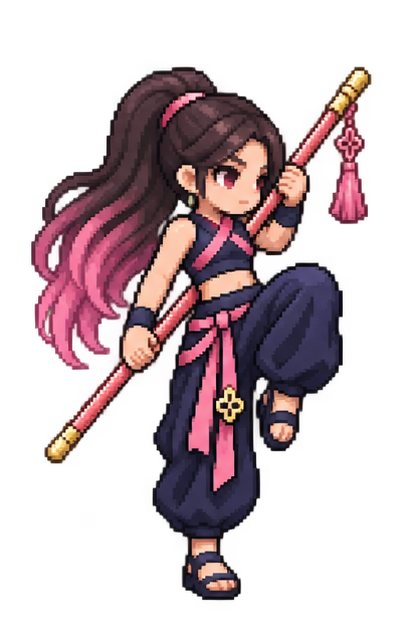
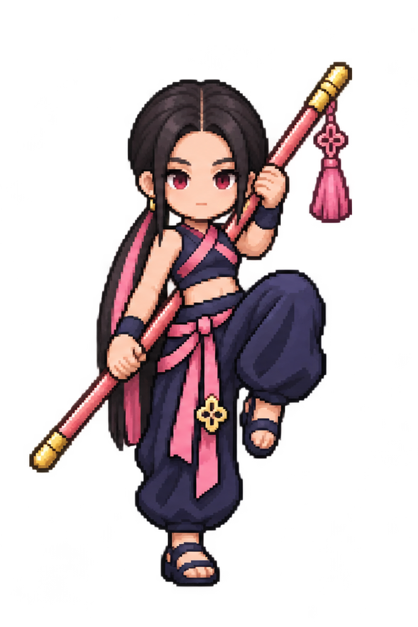
Correct Wonyoung and Leeseo hairstyles and selection portrait gazes

diff --git a/docs/index.html b/docs/index.html
@@ -11,4 +11,4 @@
 <label>CPU 난이도 <select id="difficulty"><option value="easy">쉬움</option><option value="normal" selected>보통</option><option value="hard">어려움</option></select></label>
 <button class="flow-cta" id="launch" disabled>대전 준비 중…</button></div></div></section>
 <div id="play" hidden><section class="game"><div class="arena-top"><span><i></i> TRAINING CENTER</span><span id="modeLabel">PLAYER VS CPU · 2선승</span><button id="sound" aria-label="효과음 켜기">SOUND OFF</button><button id="pause">일시정지 <kbd>ESC</kbd></button></div><div class="viewport"><canvas id="arena" width="600" height="300" aria-label="격투 게임 경기장"></canvas><div class="hud"><div class="fighter-hud"><div><b id="name1">KAI</b><small>PLAYER 01</small></div><div class="hp"><i id="hp1"></i></div><span id="wins1">○ ○</span><div class="meter"><i id="meter1"></i></div><small id="meterLabel1">SUPER 0%</small></div><div class="timer"><b id="timer">60</b><small id="round">ROUND 01</small></div><div class="fighter-hud right"><div><b id="name2">ROOK</b><small id="p2Label">CPU</small></div><div class="hp"><i id="hp2"></i></div><span id="wins2">○ ○</span><div class="meter"><i id="meter2"></i></div><small id="meterLabel2">SUPER 0%</small></div></div><div class="center" id="overlay"><div class="eyebrow" id="overlayKicker">READY WHEN YOU ARE</div><h2 id="overlayTitle">ENTER THE ARENA</h2><p id="overlayText">파이터 선택 후 대전을 시작하세요</p><button class="primary" id="start">대전 시작 <span>↗</span></button></div><div class="arena-bottom"><span>SEOUL / TRAINING CENTER</span><span id="status">FREE PLAY — NO SIGN UP</span><span>STAGE 01</span></div></div></section>
-<section class="controls"><div><h3>KNOW YOUR MOVES</h3><p>6버튼 전투 · 고유기 · 초필살기</p></div><div><b class="p1">MOVEMENT</b><p><kbd>A</kbd><kbd>D</kbd> 이동 (방향키 가능) <kbd>W</kbd> 점프 <kbd>S</kbd> 앉기</p><p>상대 반대 방향 유지: 가드 / 뒤 + S: 앉아 가드</p></div><div><b class="p2">ATTACK / 약 · 중 · 강</b><p>펀치 <kbd>U</kbd><kbd>I</kbd><kbd>O</kbd></p><p>킥 &nbsp;&nbsp; <kbd>J</kbd><kbd>K</kbd><kbd>L</kbd></p></div><div class="hint"><kbd>Q</kbd> 고유기 · <kbd>R</kbd> 슈퍼 (게이지 100%)<br>앉아 킥은 하단, 점프 공격은 중단입니다.<br><span>서 있는 가드와 앉아 가드를 상황에 맞게 사용하세요.</span></div></section><div class="touch"><button data-key="KeyA">←</button><button data-key="KeyD">→</button><button data-key="KeyW">점프</button><button data-key="KeyS">앉기</button><button data-key="KeyU">약P</button><button data-key="KeyI">중P</button><button data-key="KeyO">강P</button><button data-key="KeyJ">약K</button><button data-key="KeyK">중K</button><button data-key="KeyL">강K</button><button data-key="KeyQ">고유기</button><button data-key="KeyR">슈퍼</button></div><footer><span>DIVE / ARENA</span><span>사진 레퍼런스 기반 · PIXEL ARCADE · 팬 데모</span><button id="reset">선택 화면으로 ↗</button></footer></div></main><script src="assets/sprites-data.js"></script><script src="art.js?v=selection"></script><script src="skills.js?v=4"></script><script src="game.js?v=carousel1"></script></body></html>
+<section class="controls"><div><h3>KNOW YOUR MOVES</h3><p>6버튼 전투 · 고유기 · 초필살기</p></div><div><b class="p1">MOVEMENT</b><p><kbd>A</kbd><kbd>D</kbd> 이동 (방향키 가능) <kbd>W</kbd> 점프 <kbd>S</kbd> 앉기</p><p>상대 반대 방향 유지: 가드 / 뒤 + S: 앉아 가드</p></div><div><b class="p2">ATTACK / 약 · 중 · 강</b><p>펀치 <kbd>U</kbd><kbd>I</kbd><kbd>O</kbd></p><p>킥 &nbsp;&nbsp; <kbd>J</kbd><kbd>K</kbd><kbd>L</kbd></p></div><div class="hint"><kbd>Q</kbd> 고유기 · <kbd>R</kbd> 슈퍼 (게이지 100%)<br>앉아 킥은 하단, 점프 공격은 중단입니다.<br><span>서 있는 가드와 앉아 가드를 상황에 맞게 사용하세요.</span></div></section><div class="touch"><button data-key="KeyA">←</button><button data-key="KeyD">→</button><button data-key="KeyW">점프</button><button data-key="KeyS">앉기</button><button data-key="KeyU">약P</button><button data-key="KeyI">중P</button><button data-key="KeyO">강P</button><button data-key="KeyJ">약K</button><button data-key="KeyK">중K</button><button data-key="KeyL">강K</button><button data-key="KeyQ">고유기</button><button data-key="KeyR">슈퍼</button></div><footer><span>DIVE / ARENA</span><span>사진 레퍼런스 기반 · PIXEL ARCADE · 팬 데모</span><button id="reset">선택 화면으로 ↗</button></footer></div></main><script src="assets/sprites-data.js"></script><script src="art.js?v=selection"></script><script src="skills.js?v=4"></script><script src="game.js?v=carousel2"></script></body></html>

diff --git a/docs/game.js b/docs/game.js
@@ -47,7 +47,7 @@ $('poster').onpointerup=e=>{if(!swipe||e.pointerId!==swipe[2])return;const dx=e.
 function renderCards(direction=0){
  const i=chosen[pick], fighter=roster[i], list=$('roster');
  if(i!==displayed){
-  const img=new Image();img.src='assets/pose-'+i+'.png';img.alt=fighter.name+'의 선택 포즈';img.draggable=false;img.dataset.id=i;
+  const img=new Image();img.src='assets/pose-'+i+'.png?v=2';img.alt=fighter.name+'의 선택 포즈';img.draggable=false;img.dataset.id=i;
   const dir=direction||Math.sign(i-displayed), old=$('slide').lastElementChild;
   const animate=old&&document.body.dataset.screen==='selection'&&!matchMedia('(prefers-reduced-motion:reduce)').matches;
   $('slide').replaceChildren(img);
